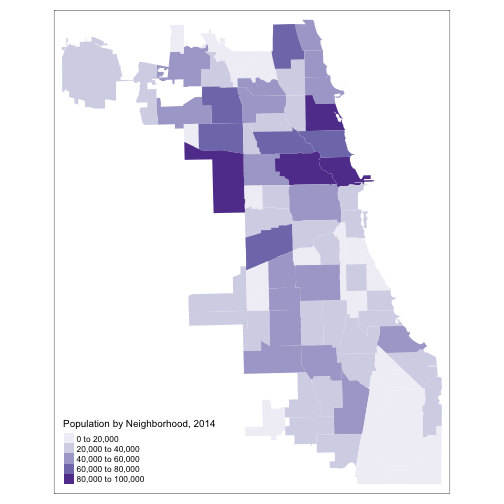
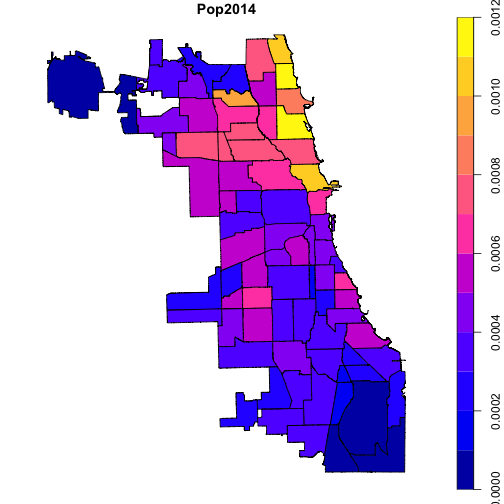
Improve files

diff --git a/gis-r.html b/gis-r.html
@@ -22,6 +22,14 @@ class: center, middle, inverse, title-slide
 
 
 
+class: center, middle, inverse
+
+# Want to try out the code in this presentation? 
+
+## Data and code are located at my Github repo [here](https://github.com/angela-li/gis-r).
+
+---
+
 # Three parts to this talk:
 
 ## 1. Why spatial data in R?
@@ -372,6 +380,13 @@ names(chi2)
 ## [86] "Tuberc"     "geometry"
 ```
 
+---
+
+# Make a second map (3)
+
+Since we have population and area, we're going to calculate population density using the `dplyr` package.
+
+
 ```r
 # Calculate population density
 library(dplyr)
@@ -410,7 +425,7 @@ chi2 &lt;- mutate(chi2, Pop2014 = Pop2014/shape_area)
 plot(chi2["Pop2014"])
 ```
 
-![](gis-r_files/figure-html/unnamed-chunk-10-1.png)&lt;!-- --&gt;
+![](gis-r_files/figure-html/unnamed-chunk-11-1.png)&lt;!-- --&gt;
 
 ---
 
@@ -431,7 +446,7 @@ tm_shape(chi2) +
 ## Warning: package 'tmap' was built under R version 3.4.4
 ```
 
-![](gis-r_files/figure-html/unnamed-chunk-12-1.png)&lt;!-- --&gt;
+![](gis-r_files/figure-html/unnamed-chunk-13-1.png)&lt;!-- --&gt;
 
 ---
 
@@ -487,14 +502,14 @@ chi2 &lt;- st_transform(chi2, groceries_crs)
 tm_shape(chi2) +
   tm_borders() + 
   tm_fill("Pop2014", palette = "Purples", 
-          title = "Population by Neighborhood, 2014") +
+          title = "Grocery Stores and Population Density, 2014") +
   tm_shape(groceries) +
   tm_dots(title = "Groceries", size = 0.1, col = "black")
 ```
 
 ---
 
-![](gis-r_files/figure-html/unnamed-chunk-16-1.png)&lt;!-- --&gt;
+![](gis-r_files/figure-html/unnamed-chunk-17-1.png)&lt;!-- --&gt;
 
 ---
 
@@ -611,11 +626,13 @@ class: center, middle
 
 # Thanks!
 
+**Want to try out the code in this presentation? Data and code are located at my Github repo [here](https://github.com/angela-li/gis-r).**
+
 Slides created via the R package [xaringan](https://github.com/yihui/xaringan) by [Yihui Xie](https://twitter.com/xieyihui?lang=en). If you're interested in learning how to make slide decks in R, check out Alison's [awesome guide here](https://github.com/rladies/resources/blob/master/xaringan-slides/how_to_use.md). It's focused on using the R-Ladies theme, but you can generalize!
 
 Slides available at  &lt;font style="text-transform: lowercase;"&gt;&lt;http://bit.ly/harris-gis&gt;&lt;/font&gt; &lt;br&gt;
 
-Contact me at @[CivicAngela](https://twitter.com/CivicAngela), ali6@uchicago.edu
+Contact me at @[CivicAngela](https://twitter.com/CivicAngela), ali6@uchicago.edu with feedback and any additional comments!
     </textarea>
 <script src="https://remarkjs.com/downloads/remark-latest.min.js"></script>
 <script>var slideshow = remark.create({

diff --git a/README.md b/README.md
@@ -5,7 +5,7 @@ Angela Li
 
 This talk is a modified version of my [previous talk](https://github.com/angela-li/rladies-spatial-data) for R-Ladies Chicago, with the goal of inspiring UChicago students to go out and try using R for GIS.
 
-I rapidly sailed through a lot of content when I gave the talk, so I'd recommend going back and digging through these slides in depth. You can find the data for the talk in the `data` folder.
+I rapidly sailed through a lot of content when I gave the talk, so I'd recommend going back and digging through these slides in depth. You can find the data for the talk in the `data` folder. I also made a pure R script (`gis-r.R`) with all the commands that I use in the presentation.
 
 Below are the slides from the presentation, which I updated a bit based on feedback I got from y'all. If you have additional comments, please let me know! The shortlink to the slides is [bit.ly/harris-gis](bit.ly/harris-gis) for easy reference.
 
